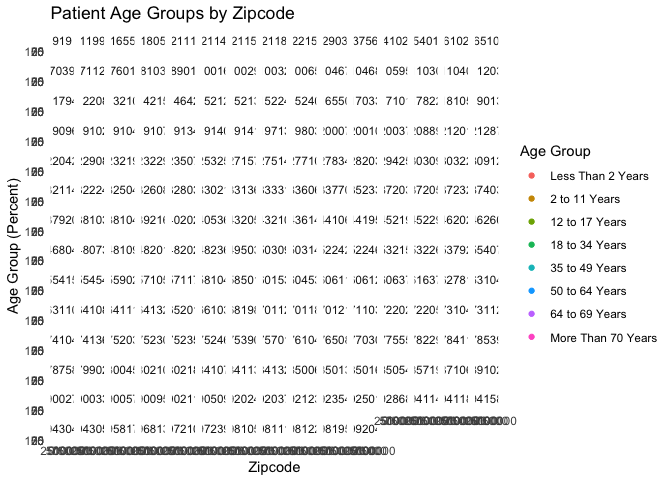
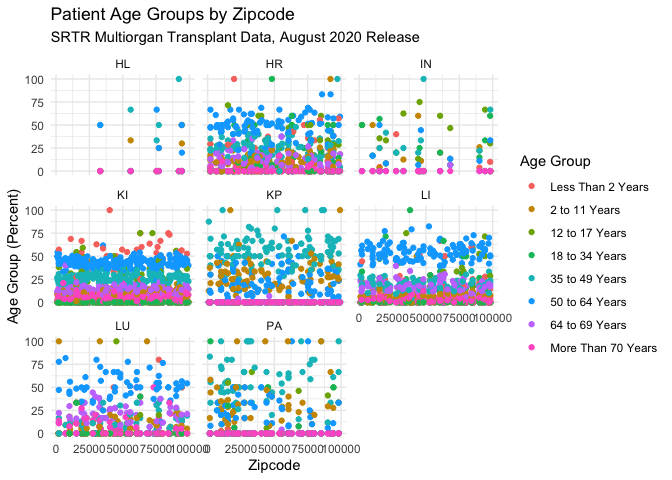
Summary Plots

diff --git a/SummaryPlotsMS.md b/SummaryPlotsMS.md
@@ -46,7 +46,6 @@ I will define the age dataframes
 
 ``` r
 phrase = "SRTR Multiorgan Transplant Data, August 2020 Release"
-
 df_one_age = read.csv("./data/csrs_final_tables_2006_HL_age.csv") 
 df_two_age = read.csv("./data/csrs_final_tables_2006_HR_age.csv") 
 df_three_age = read.csv("./data/csrs_final_tables_2006_IN_age.csv")
@@ -64,11 +63,76 @@ I will plot the age dataframes
 ``` r
 plot = df_all_age %>% ggplot(aes(x=zipcode, y =age_category_percent, color = age_category)) + geom_point() + 
   labs(
-    title = "Patient Age Groups by Zipcode", subtitle = ,
+    title = "Patient Age Groups by Zipcode", subtitle = phrase,
     x = "Zipcode",
     y = "Age Group (Percent)",color = "Age Group"
-  ) + theme_minimal()  + scale_color_hue(labels = c("Less Than 2 Years", "2 to 11 Years", "12 to 17 Years", "18 to 34 Years", "35 to 49 Years", "50 to 64 Years", "64 to 69 Years", "More Than 70 Years")) + facet_wrap(~df_all_age[, c(5)])
+  ) + theme_minimal()  + scale_color_hue(labels = c("Less Than 2 Years", "2 to 11 Years", "12 to 17 Years", "18 to 34 Years", "35 to 49 Years", "50 to 64 Years", "64 to 69 Years", "More Than 70 Years")) + facet_wrap(~org)
 print(plot)
 ```
 
-![](SummaryPlotsMS_files/figure-gfm/unnamed-chunk-3-1.png)<!-- -->
+![](SummaryPlotsMS_files/figure-gfm/unnamed-chunk-3-1.png)<!-- --> I
+will repeat for gender
+
+``` r
+df_one_gender = read.csv("./data/csrs_final_tables_2006_HL_gender.csv") 
+df_two_gender = read.csv("./data/csrs_final_tables_2006_HR_gender.csv") 
+df_three_gender = read.csv("./data/csrs_final_tables_2006_IN_gender.csv")
+df_four_gender = read.csv("./data/csrs_final_tables_2006_KI_gender.csv")
+df_five_gender = read.csv("./data/csrs_final_tables_2006_KP_gender.csv")
+df_six_gender = read.csv("./data/csrs_final_tables_2006_LI_gender.csv")
+df_seven_gender = read.csv("./data/csrs_final_tables_2006_LU_gender.csv")
+df_eight_gender = read.csv("./data/csrs_final_tables_2006_PA_gender.csv")
+df_all_gender = rbind(df_one_gender, df_two_gender, df_three_gender, df_four_gender, df_five_gender, df_six_gender, df_seven_gender, df_eight_gender)
+#view(df_all_gender)
+```
+
+I will plot the gender dataframes
+
+``` r
+plot = df_all_gender %>% ggplot(aes(x=zipcode, y =gender_category_percent, color = gender_category)) + geom_point()+ 
+  labs(
+    title = "Patient Gender Groups by Zipcode", subtitle = phrase,
+    x = "Zipcode",
+    y = "Gender Group (Percent)", color = "Gender"
+  ) + theme_minimal() + scale_color_hue(labels = c("Female", "Male")) + facet_wrap(~org)
+print(plot)
+```
+
+    ## Warning: Removed 42 rows containing missing values (geom_point).
+
+![](SummaryPlotsMS_files/figure-gfm/unnamed-chunk-5-1.png)<!-- -->
+
+I will repeat for demographics
+
+``` r
+df_one_demographics = read.csv("./data/csrs_final_tables_2006_HL_demographics.csv") 
+df_two_demographics = read.csv("./data/csrs_final_tables_2006_HR_demographics.csv") 
+df_three_demographics = read.csv("./data/csrs_final_tables_2006_IN_demographics.csv")
+df_four_demographics = read.csv("./data/csrs_final_tables_2006_KI_demographics.csv")
+df_five_demographics = read.csv("./data/csrs_final_tables_2006_KP_demographics.csv")
+df_six_demographics = read.csv("./data/csrs_final_tables_2006_LI_demographics.csv")
+df_seven_demographics = read.csv("./data/csrs_final_tables_2006_LU_demographics.csv")
+df_eight_demographics = read.csv("./data/csrs_final_tables_2006_PA_demographics.csv")
+df_all_demographics = rbind(df_one_demographics, df_two_demographics, df_three_demographics, df_four_demographics, df_five_demographics, df_six_demographics, df_seven_demographics, df_eight_demographics)
+```
+
+I will plot the demographics dataframes
+
+``` r
+plot = df_all_demographics %>% ggplot(aes(x=zipcode, y =race_category_percent, color = race_category)) + geom_point()+ theme_minimal() + facet_wrap(~org)
+  labs(
+    title = "Patient Demographics by Zipcode",subtitle = phrase,
+    x = "Zipcode",
+    y = "Race (Percent)", 
+    color = "Race") + scale_color_hue(labels = c("African American", "Asian", "Hispanic or Latino", "Other", "Unknown", "White"))
+```
+
+    ## NULL
+
+``` r
+print(plot)
+```
+
+    ## Warning: Removed 126 rows containing missing values (geom_point).
+
+![](SummaryPlotsMS_files/figure-gfm/unnamed-chunk-7-1.png)<!-- -->
